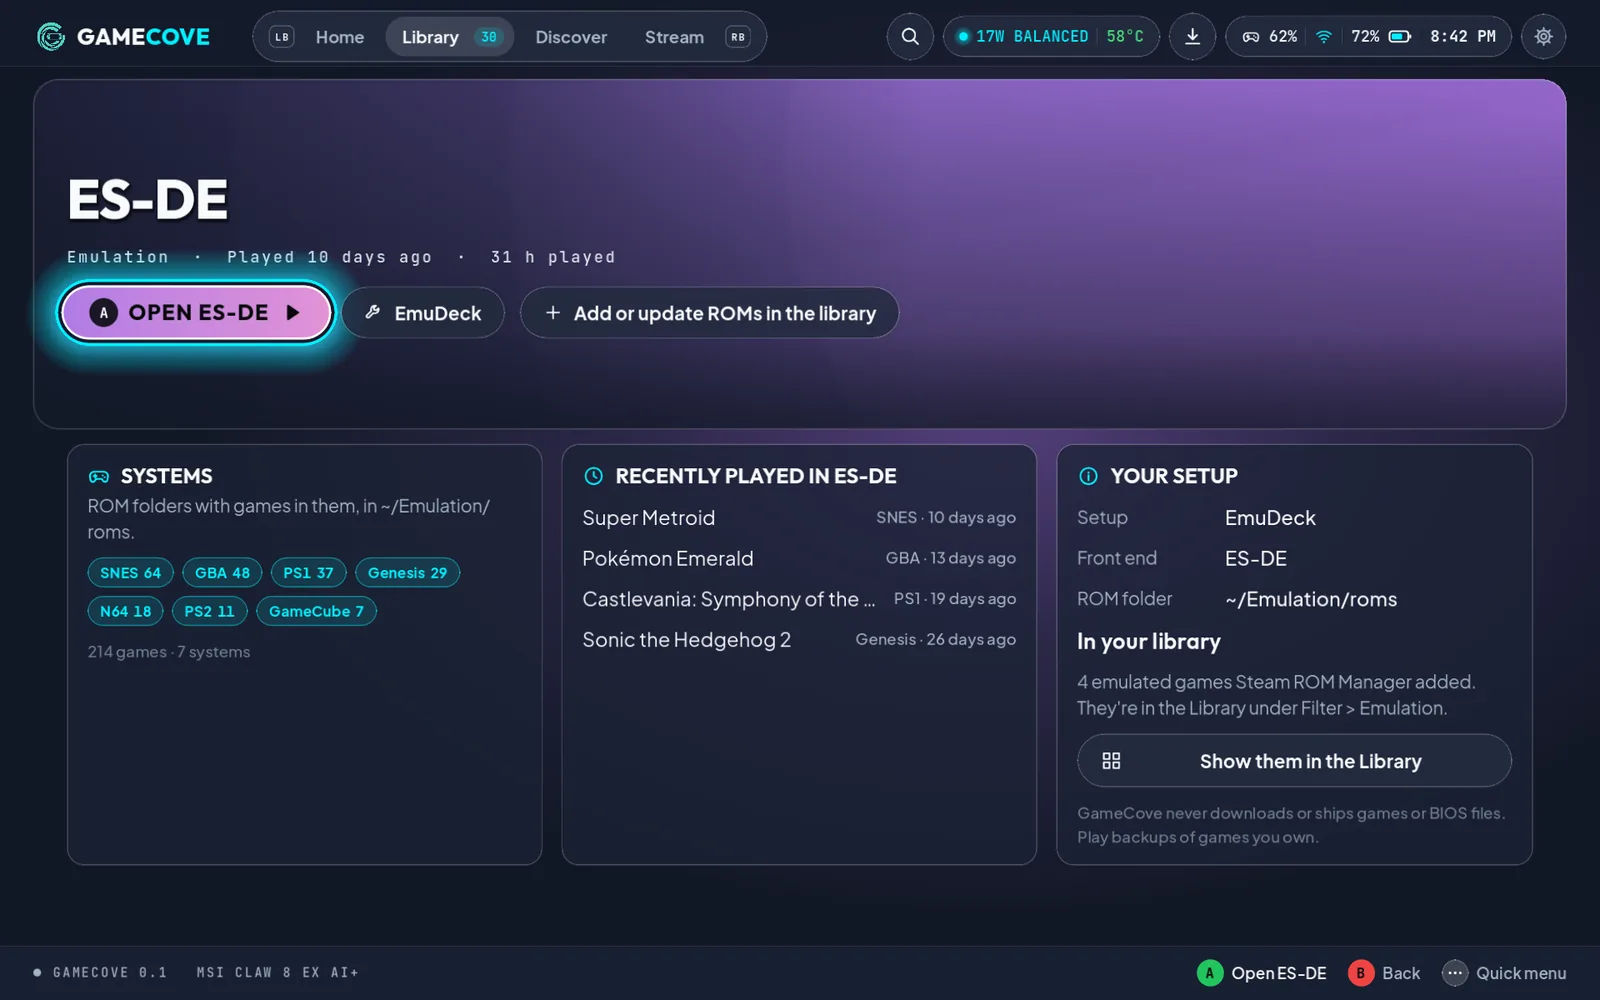
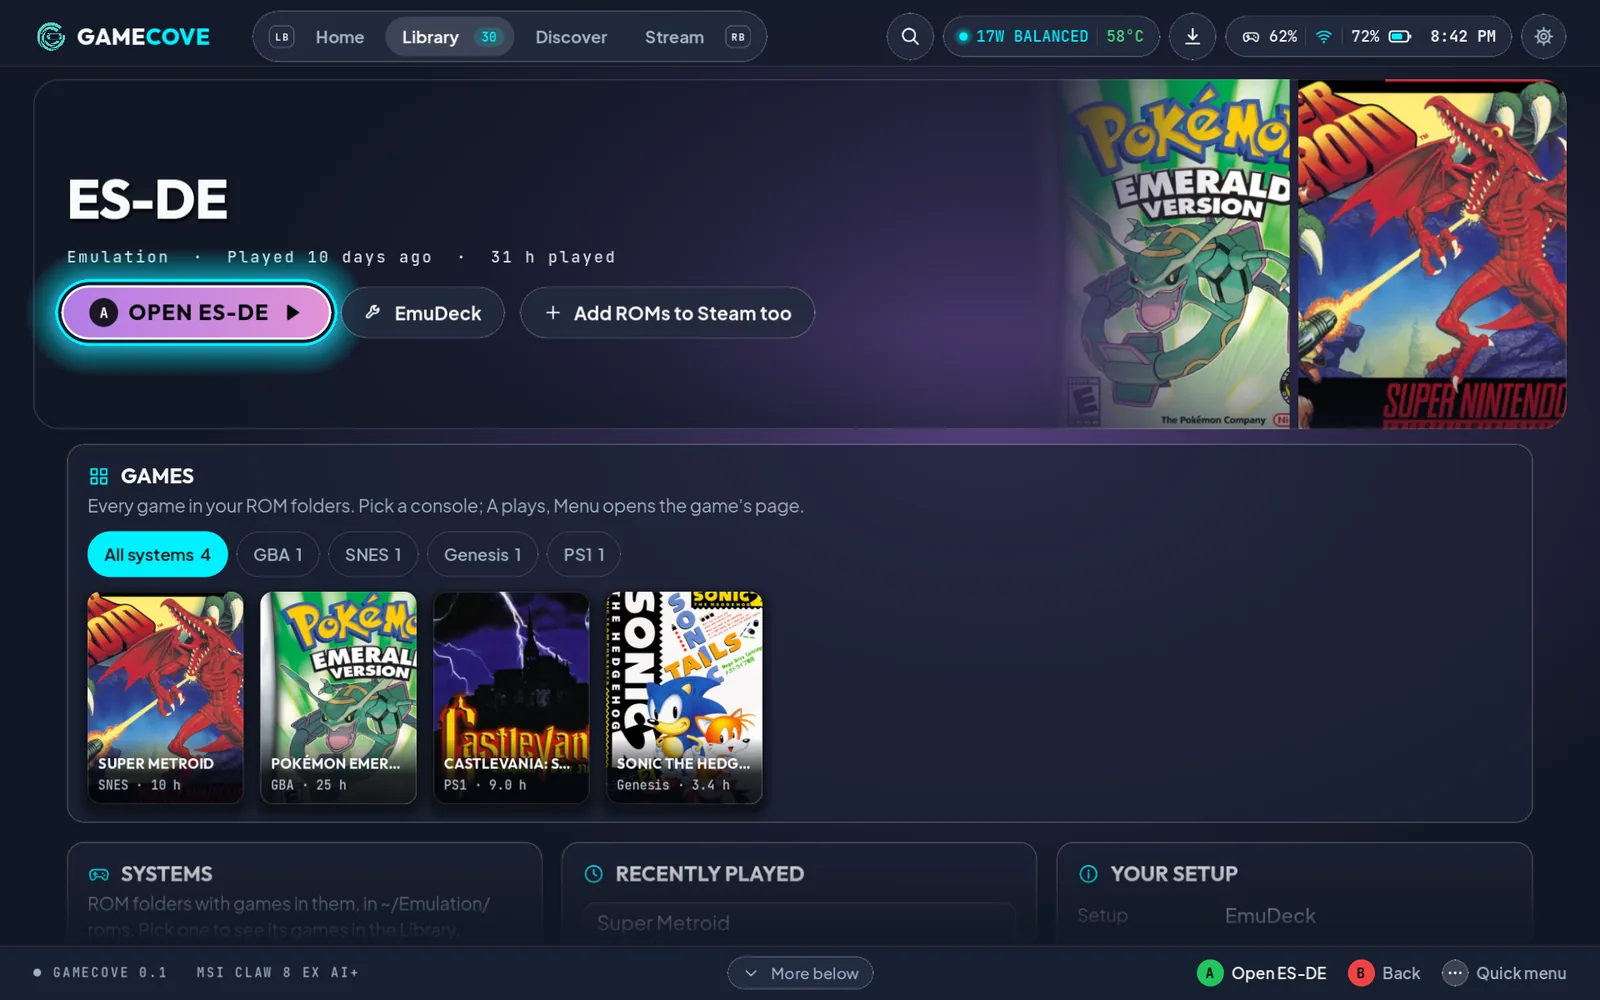
ROM tiles name the game and its console, with box art too
Console box art scanned or scraped by ES-DE often has no readable title, so
a shelf of ROM games showed only "Emulation · 10 h". Every tile of a ROM game
(Home shelves, Library grid and search, the Emulation page's grid) now shows
its name in the plate, like a generated cover, and the console on its line
("SNES · 10 h"); store covers keep their painted logo alone. Clean file
names put No-Intro's " - " back as the colon ("Castlevania: Symphony of the
Night"). README shots of Home's Emulation shelf and the Emulation page
re-rendered.

Claude-Session: https://claude.ai/code/session_019gY8Z1gs8noamioEcTumTn

diff --git a/docs/DESIGN.md b/docs/DESIGN.md
@@ -134,7 +134,7 @@ All in `app/scripts/ui/`. Build new screens from these.
 | Art cache | `art_cache.gd` | Threaded loading; covers cropped to 2:3 at 360x540, heroes 1920 wide, logos, the 320 px blur; least recently used goes first |
 | Fallback art | `fallback_art.gd` | Generated cover for games without art: gradient from the key, a motif, the title |
 | Hero stage | `hero_stage.gd`, `shaders/hero_fade.gdshader` | Crisp key art masked into the backdrop or into a rounded frame (`frame_radius`): the Home spotlight and Downloads' now card; slow drift; welcome glow on first launch |
-| Tile | `game_tile.gd` | Cover, lift, accent ring with a glow tinted by the art; the top three quarters stay clean and everything we add sits in one bottom plate (title only where the art has none: focusing a cover never adds a second title or shifts its store line; one status pill and Discover's price, store line plus one quiet extra; generated covers show the monogram alone, the store is only in the plate); `Tile.size_for(width)` sizes covers for `PER_ROW` (7.3) across; unfocused tiles sit slightly dimmed; loads art only near the screen |
+| Tile | `game_tile.gd` | Cover, lift, accent ring with a glow tinted by the art; the top three quarters stay clean and everything we add sits in one bottom plate (title only where the art has none, and on every ROM game, whose box art often has no readable title: focusing a cover never adds a second title or shifts its store line; one status pill and Discover's price, store line plus one quiet extra; generated covers show the monogram alone, the store is only in the plate); `Tile.size_for(width)` sizes covers for `PER_ROW` (7.3) across; unfocused tiles sit slightly dimmed; loads art only near the screen |
 | Glyph | `glyph.gd` | Controller button glyph, re-tinted on theme change |
 | Shelf | `shelf.gd` | Titled row of tiles (sized for seven across) with gliding scroll that moves only as far as it must to keep a tile of room either side of the focus (so "03 / 09" is always the third card you see), row memory, and soft edges: a 96 px scrim fade on an edge the row runs past (solid for its outer quarter, 85 % at 60 %), and covers an edge cuts into fade with it, so nothing is hard-clipped |
 | Fade mask | `fade_mask.gd` | A true alpha mask at the foot of a scrolling area (`FadeMask.wrap(scroll, px)`): content fades out over `px` while more waits below, over any background. With `cut_fn` (the device pages' cards) it ends under the last whole card instead, so a card the edge would slice isn't drawn at all, and "More below" says there's more. Godot can't nest clip-children masks (the inner one draws as a white block), so a mask inside another one (the device tabs inside Settings) stands down: no clipping, texture hidden, and the cards it would cut go transparent instead |
